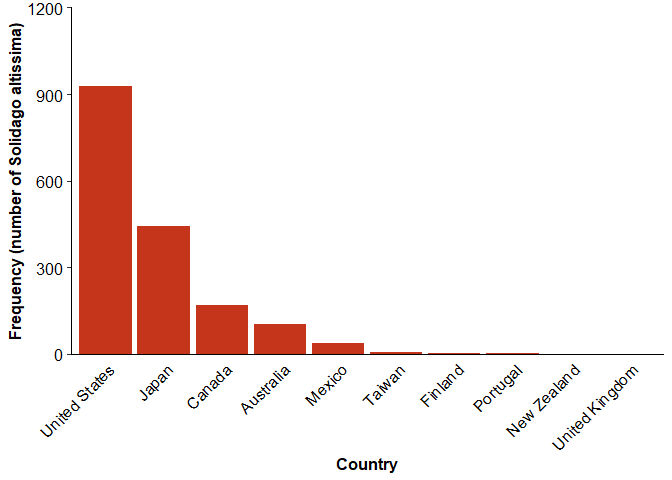
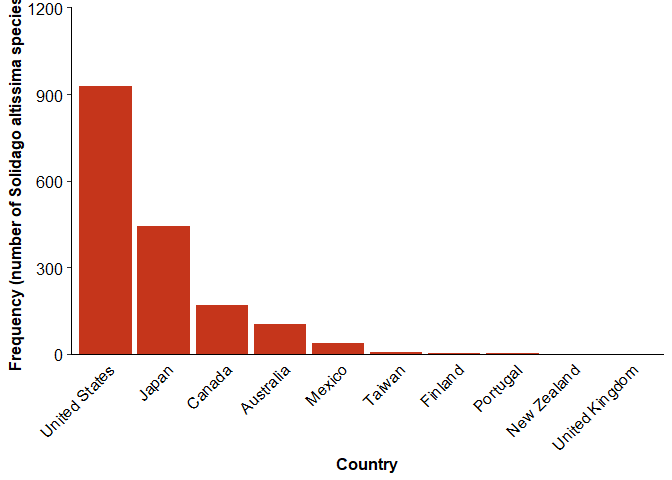
Final update

Changed region(s): [[0.0, 0.0, 0.0625, 0.7812]]

diff --git a/README.md b/README.md
@@ -1,7 +1,7 @@
 
-<img src="https://www2.mnstate.edu/uploadedImages/Content/Marketing/logos/MSUM_Signature_Vert_Color.jpg" alt="MSUM logo" width="200" style="float:right">
+<img src="https://www2.mnstate.edu/uploadedImages/Content/Marketing/logos/MSUM_Signature_Vert_Color.jpg" alt="MSUM logo" width="200" style="float:right"/>
 
-# Frequency of Solidago altissima in North American and Canadian regions
+# Frequency of *Solidago altissima* in North American and Canadian regions
 
 Tyler Edvall
 
@@ -46,15 +46,15 @@ are often found across large areas of the United States, northern parts
 of Mexico, and Canada. On rare occasions, *solidago altissima* has been
 recorded in areas such as Japan, Africa, and southern parts of Asia.
 Their native habitat includes dry to moist roadsides, thickets, prairies
-& open woods, making Solidago altissima common in human populated areas.
-Solidago altissima is unique due to its tolerance of landscapes which
-have had human disturbance. The plant is able to tolerate uneven
+& open woods, making *solidago altissima* common in human populated
+areas. *Solidago altissima* is unique due to its tolerance of landscapes
+which have had human disturbance. The plant is able to tolerate uneven
 terrain, and has modest growing demands, which is the reason for their
 high tolerance of human disturbed landscapes. Another unique trait is
-the plant’s high plasticity to various soil types. Solidago altissima is
-able to grow in moist to dry soils, clay, clay loam, medium loam, sandy
-loam, sandy, and caliche type soils. These unique traits have allowed
-the plant to most frequently grow widespread in the North
+the plant’s high plasticity to various soil types. *Solidago altissima*
+is able to grow in moist to dry soils, clay, clay loam, medium loam,
+sandy loam, sandy, and caliche type soils. These unique traits have
+allowed the species to most frequently grow widespread in the North
 American/Canadian region. As well as, survive rough terrain caused by
 human disturbance.
 
@@ -64,11 +64,11 @@ human disturbance.
 
 # Data Acquisition
 
-I obtained Solidago altissima data from the Botanical Information and
+I obtained *solidago altissima* data from the Botanical Information and
 Ecology Network (Brian Maitner 2020). The data obtained consisted of the
-species occurrence of Solidago altissima from the (BIEN) package (Brian
-Maitner 2020). The species occurrence data was used to create a map of
-species range, and for further data analysis.
+species occurrence of *solidago altissima* from the (BIEN) package
+(Brian Maitner 2020). The species occurrence data was used to create a
+map of species range, and for further data analysis.
 
 # Data Preparation
 
@@ -76,59 +76,62 @@ species range, and for further data analysis.
 library(BIEN) package (Brian Maitner 2020).
 
 -I used the (ape) function from the BIEN package (Brian Maitner 2020)
-for working with the Solidago altissima phylogeny in R.
+for working with the *solidago altissima* phylogeny in R.
 
 -I used (maps) and (sp) functions within the BIEN package (Brian Maitner
 2020) for making quick maps of occurrences. The (map) function created
-the base map, (points) function plotted occurrences of Solidago
-altissima, (plot) function added a map of Solidago altissima’s range.
+the base map, (points) function plotted occurrences of *solidago
+altissima*, (plot) function added a map of *solidago altissima’s* range.
 
 -I used the (filter) function in base R (R Core Team 2020) to arrange
-the Solidago altissima data by species, species occurrence, new world
+the *solidago altissima* data by species, species occurrence, new world
 only, country, United States, and Canada.
 
 -I used the (count) function in base R (R Core Team 2020) to count the
-Solidago altissima frequency in both United States and Canada.
+*solidago altissima* frequency in both United States and Canada.
 
--Within the (data.frame) of the solidago altissima data, I sorted by
+-Within the (data.frame) of the *solidago altissima* data, I sorted by
 oldest instance of year. This allowed me to find the time-span of data
-collection on solidago altissima. The years 1836 to 2016.
+collection on *solidago altissima*. The years 1836 to 2016.
 
 ## Results
 
-Figure 1: Solidago altissima species frequency map across both the new
+Figure 1: *Solidago altissima* species frequency map across both the new
 world and old world. Blue spots indicate species instances.
 
-Figure 2: Solidago altissima species frequency map restricted to new
+![](README_files/figure-gfm/unnamed-chunk-3-1.png)<!-- -->
+
+Figure 2: *Solidago altissima* species frequency map restricted to new
 world only. Green spots indicate species instances.
 
-![](README_files/figure-gfm/unnamed-chunk-3-1.png)<!-- -->![](README_files/figure-gfm/unnamed-chunk-3-2.png)<!-- -->
+![](README_files/figure-gfm/unnamed-chunk-4-1.png)<!-- -->
 
-Figure 3: Bar graph of Solidago altissima species occurrence per
+Figure 3: Bar graph of *solidago altissima* species occurrence per
 country.
 
-![](README_files/figure-gfm/unnamed-chunk-5-1.png)<!-- -->
+![](README_files/figure-gfm/unnamed-chunk-6-1.png)<!-- -->
 
 ## Discussion
 
-When examining the species frequency of solidago altissima in regard to
-location, North America has the largest species frequency, followed by
-Asia. While previously collected data on the reason for solidago
-altissima’s high frequency in North America is low, there are a few
-possibilities to explain this occurrence. As previously stated, solidago
-altissima has a naturally high tolerance for growing in human disturbed
-areas. The United States 2020 population is just under nine times that
-of Canada’s 2020 population (Worldometers.info 2020). This large
-difference in populations could suggest a trend in solidago altissima’s
-growth dispersion. If the overall species has undergone evolution to
-better adapt to modern human behavior, it would infer a relationship
-between country population size and species frequency of solidago
-altissima. An instance of a reduced country population could decrease
-the abundance of harsh terrain caused by human disturbances. Conversely,
-solidago altissima may have originated and or evolved within the United
-States exclusively for a large duration of its development as a species.
-A union of these two concepts could result in the ecological dispersion
-of solidago altissima that we currently observe.
+When examining the species frequency of *solidago altissima* in regard
+to location, North America has the largest species frequency, followed
+by Asia. While previously collected data on the reason for *solidago
+altissima’s* high frequency in North America is low, there are a few
+possibilities to explain this occurrence. As previously stated,
+*solidago altissima* has a naturally high tolerance for growing in human
+disturbed areas. The United States 2020 population is just under nine
+times that of Canada’s 2020 population (Worldometers.info 2020). This
+large difference in populations could suggest a trend in *solidago
+altissima’s* growth dispersion. If the overall species has undergone
+evolution to better adapt to modern human behavior, it would infer a
+relationship between country population size and species frequency of
+*solidago altissima*. An instance of a reduced country population could
+decrease the abundance of harsh terrain caused by human disturbances.
+Conversely, *solidago altissima* may have originated and or evolved
+within the United States exclusively for a large duration of its
+development as a species. A union of these two concepts could result in
+the ecological dispersion of *solidago altissima* that we currently
+observe.
 
 ## References
 
